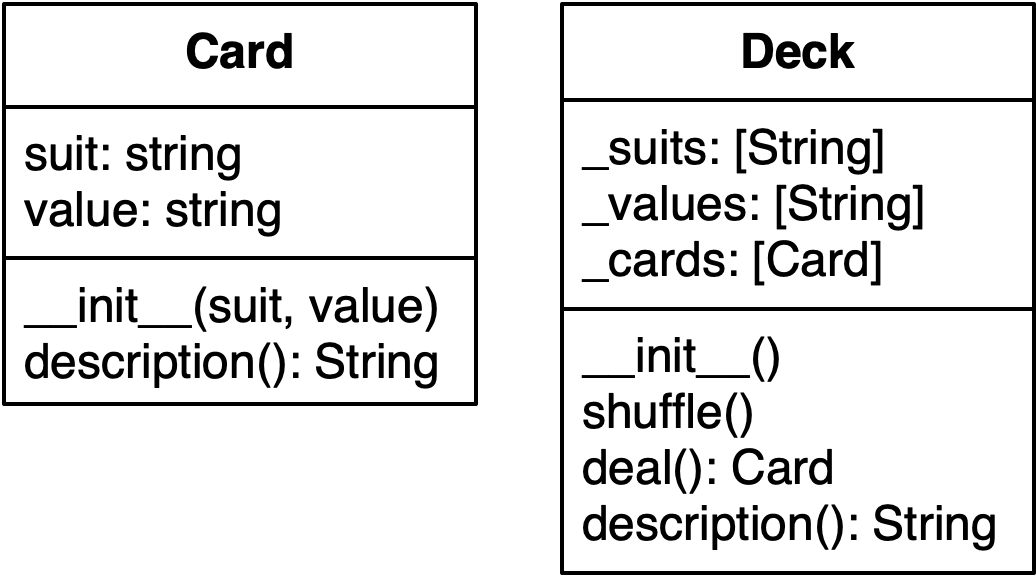
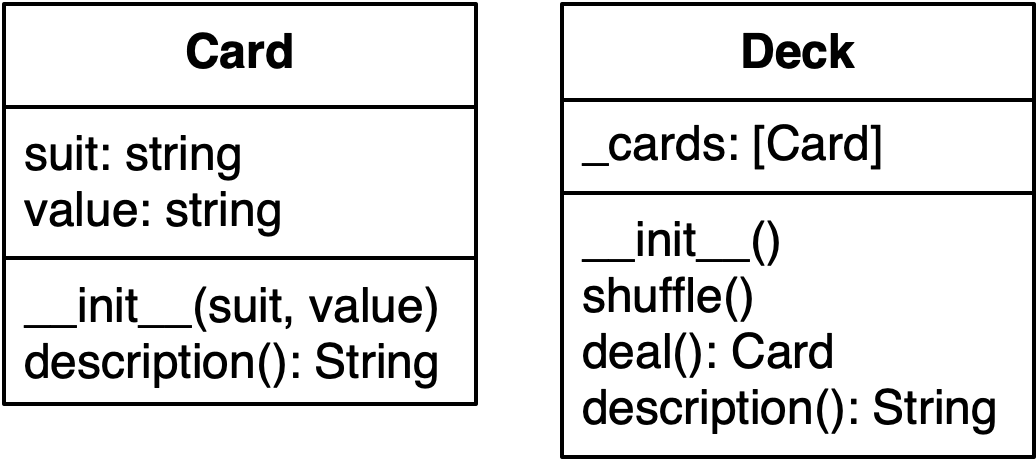
cards

diff --git a/opdrachten/classes/cards/index.md b/opdrachten/classes/cards/index.md
@@ -21,11 +21,11 @@ UML, or unified modeling language, provides us with a way to draw diagrams of ho
 
 **Assignment** --- Write a declaration for the `Card` class. In the editor to the right, add it to a file named `cardgame.py`. Don't worry about putting something *in* the class; you'll write the class body in a minute!
 
-Use the following syntax:
-
-    class ClassName:
-
-First the `class` keyword, and then the name of your class.
+> Use the following syntax:
+> 
+>     class ClassName:
+> 
+> First the `class` keyword, and then the name of your class.
 
 ## Card: initializer
 
@@ -36,12 +36,14 @@ A method is a function that is attached to a particular class. That is why the c
 
 **First**, write an initializer that takes `suit` and `value` parameters and initializes attributes with the same name.
 
-Use the following syntax:
-
-    def __init__(self, attr1, ...) -> None:
-        self.attr1 = attr1
-
-In the parameter list of the `__init__` method, you define for which attributes a value has to be provided. In the method body, you set the corresponding attributes via `self`. Note that `__init__` doesn't `return` anything! It just sets the attributes.
+> Use the following syntax:
+> 
+>     def __init__(self, attr1, ...) -> None:
+>         self.attr1 = attr1
+> 
+> In the parameter list of the `__init__` method, you define for which attributes a value has to be
+> provided. In the method body, you set the corresponding attributes via `self`. Note that `__init__`
+> doesn't `return` anything! It just sets the attributes.
 
 ## Card: description
 
@@ -51,11 +53,11 @@ In the parameter list of the `__init__` method, you define for which attributes 
 
 `Ace` comes from the attribute `self.value` and `spades` from `self.suit`.
 
-Return a formatted string like this one:
-
-    f"hello, {s}"
-
-This will create a new string that contains `hello, ` and then it will insert the value of the variable `s`. For example, if `s` happens to be the string `"David"`, the f-string above would amount to `"hello, David"`.
+> Return a formatted string using f-string syntax:
+> 
+>     f"hello, {s}"
+> 
+> This will create a new string that contains `hello, ` and then it will insert the value of the variable `s`. For example, if `s` happens to be the string `"David"`, the f-string above would amount to `"hello, David"`.
 
 ## Card: testing
 
@@ -67,17 +69,17 @@ Anything that's inside this `if` will only be executed if we run the file direct
 
 In the `if`, **write** a few statements to create example `Card` objects.
 
-Use the following syntax:
-
-    var1 = ClassName(...)
-
-This assigns a new object of type `ClassName` to the variable `var1`. In the place of the `...` you should provide the required parameters for the initializer. Recall which parameters are needed? These should match the parameters you required in the `__init__` method that you wrote.
+> Use the following syntax:
+> 
+>     var1 = ClassName(...)
+> 
+> This assigns a new object of type `ClassName` to the variable `var1`. In the place of the `...` you should provide the required parameters for the initializer. Recall which parameters are needed? These should match the parameters you required in the `__init__` method that you wrote.
 
 And after those statements, **add** a few statements that print the objects from the variables you created.
 
-Use the following syntax:
-
-    print(var1.description())
+> Use the following syntax:
+> 
+>     print(var1.description())
 
 Now try it out! In the Terminal, **run** `python cardgame.py` and verify the results.
 
@@ -89,22 +91,22 @@ In this exercise, a Deck will be a standard deck of hearts, diamonds, clubs and 
 
 Before writing those methods, let's declare the class and add an initializer.
 
-**Add** a declaration for the `Deck` class to your code. Then, **add** an initializer. The initializer for this class doesn't take any arguments besides `self`, because any `Deck` will always have the same set of cards.
-
-The initializer is a good place for *default* values. Let us provide you with the declarations of two important attributes for this class:
-
-    self._suits = ['Hearts','Diamonds','Clubs','Spades']
-    self._values = ['A','2','3','4','5','6','7','8','9','10','J','Q','K']
-
-As you can see, we *hardcode* the suits and values, because in our program, these will always be the same. **Copy** those declarations into your initializer.
+**Add** a declaration for the `Deck` class to your code (above the `main` please!). Then, **add** an initializer. The initializer for this class doesn't take any arguments besides `self`, because any `Deck` will always have the same set of cards.
 
 ## Deck: instantiating cards
 
-The purpose of a "deck" will be to *contain* a set of 52 cards. In Python, we choose to store these cards in a list. With the `_suits` and `_values` we defined in the previous step, there is enough information in the `Deck` class to be able to create a `Card` instance for each of the 52 combinations.
+The purpose of a "deck" will be to *contain* a set of 52 cards. In Python, we choose to store these cards in a list.
+
+Let us first provide you with the declarations of two lists that you will need to generate the cards.
+
+    _suits = ['Hearts','Diamonds','Clubs','Spades']
+    _values = ['A','2','3','4','5','6','7','8','9','10','J','Q','K']
+
+**Copy** those declarations into your initializer.
 
 **Write** code to generate all 52 `Card`s and add them to a list called `_cards`. Code to do this should be added to the end of the initializer.
 
-> The list should be called `_cards` with an underscore because we want it to be encapsulated by the class. Code outside of the class should not need to access this list directly.
+> Note: the list should be called `_cards` with an underscore because we want it to be encapsulated by the class. Code outside of the class should not need to access this list directly.
 
 Here is one suggestion for the pseudocode:
 
@@ -139,13 +141,13 @@ The first of our main methods for the `Deck` class is `shuffle`. It should take 
 
 **Second**, write a `shuffle` method for the `Deck` class. It should do nothing other than call `random.shuffle` with the `cards` attribute as a parameter. This will provide shuffling functionality for your class, and *delegate* that functionality to another (Python-provided) module.
 
-As an example, `random.shuffle` can be used to shuffle lists like this:
-
-    import random
-    numbers = [1, 2, 3, 4, 5]
-    random.shuffle(numbers)
-    print(numbers)
-    [2, 3, 1, 4, 5]
+> As an example, `random.shuffle` can be used to shuffle lists like this:
+> 
+>     import random
+>     numbers = [1, 2, 3, 4, 5]
+>     random.shuffle(numbers)
+>     print(numbers)
+>     [2, 3, 1, 4, 5]
 
 Have a look at the [Python docs](https://docs.python.org/3/library/random.html#random.shuffle) for more information.
 
@@ -165,9 +167,9 @@ In your testing code, add
 
     card = deck.deal()
 
-right after creating the `Deck`. Because the deck hasn't been shuffled at that point, this card should be the King of Spades. Use `print(card.description())` to print the card. **Try** it out!
+right after creating the `Deck`. Because the deck hasn't been shuffled at that point, this card *must* be the King of Spades. Use `print(card.description())` to print the card. **Try** it out!
 
-Now test the `shuffle` method! Call it in your testing code and verify that the shuffling is indeed pseudorandom.
+Now test the `shuffle` method! Call it in your testing code and verify that the shuffling is indeed (pseudo)random.
 
 ## Final Checkup
 
